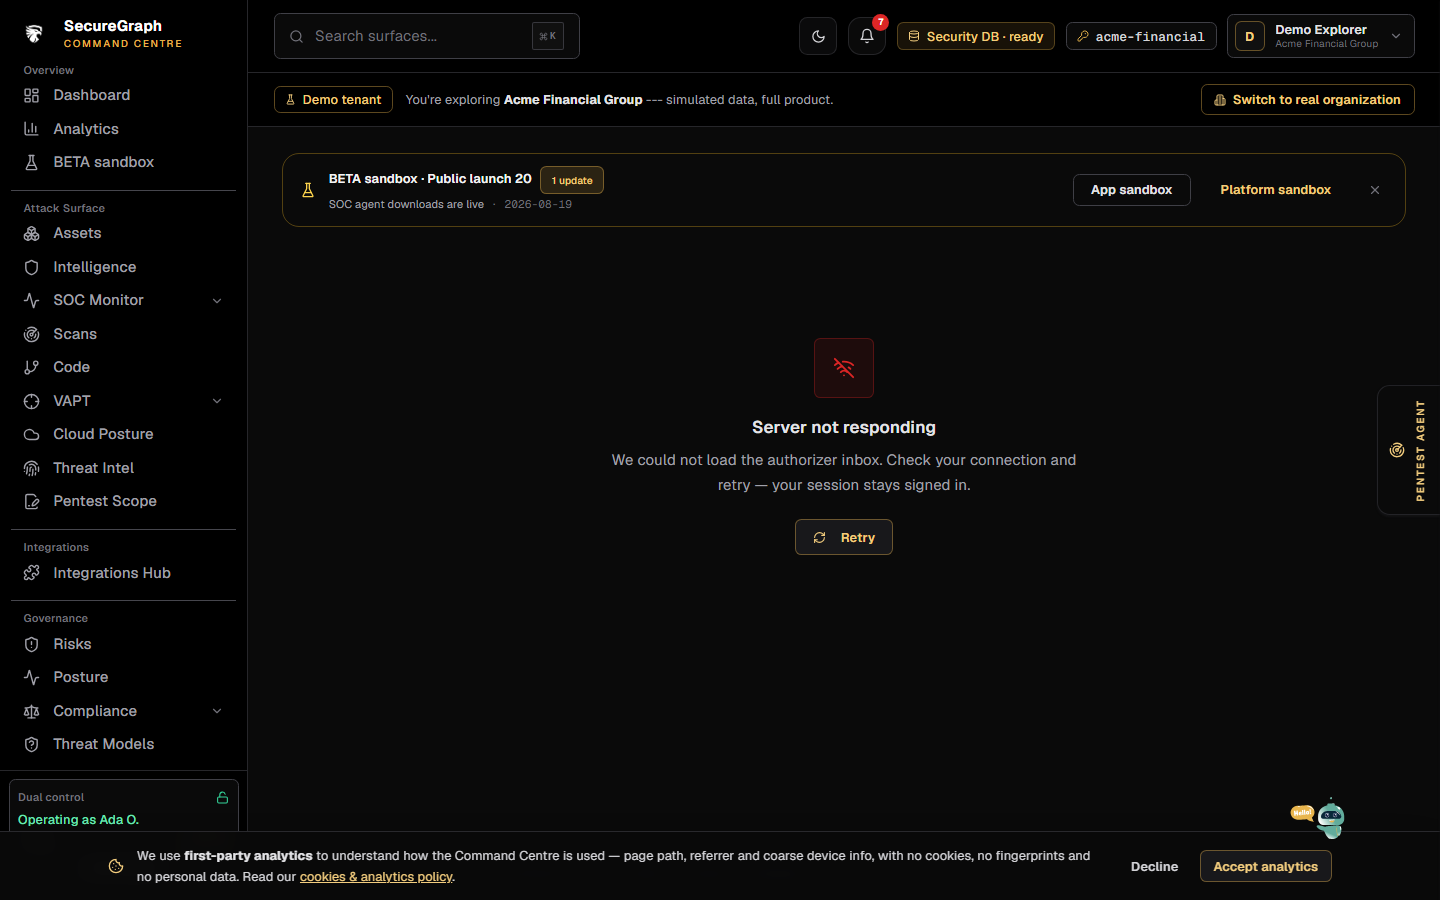
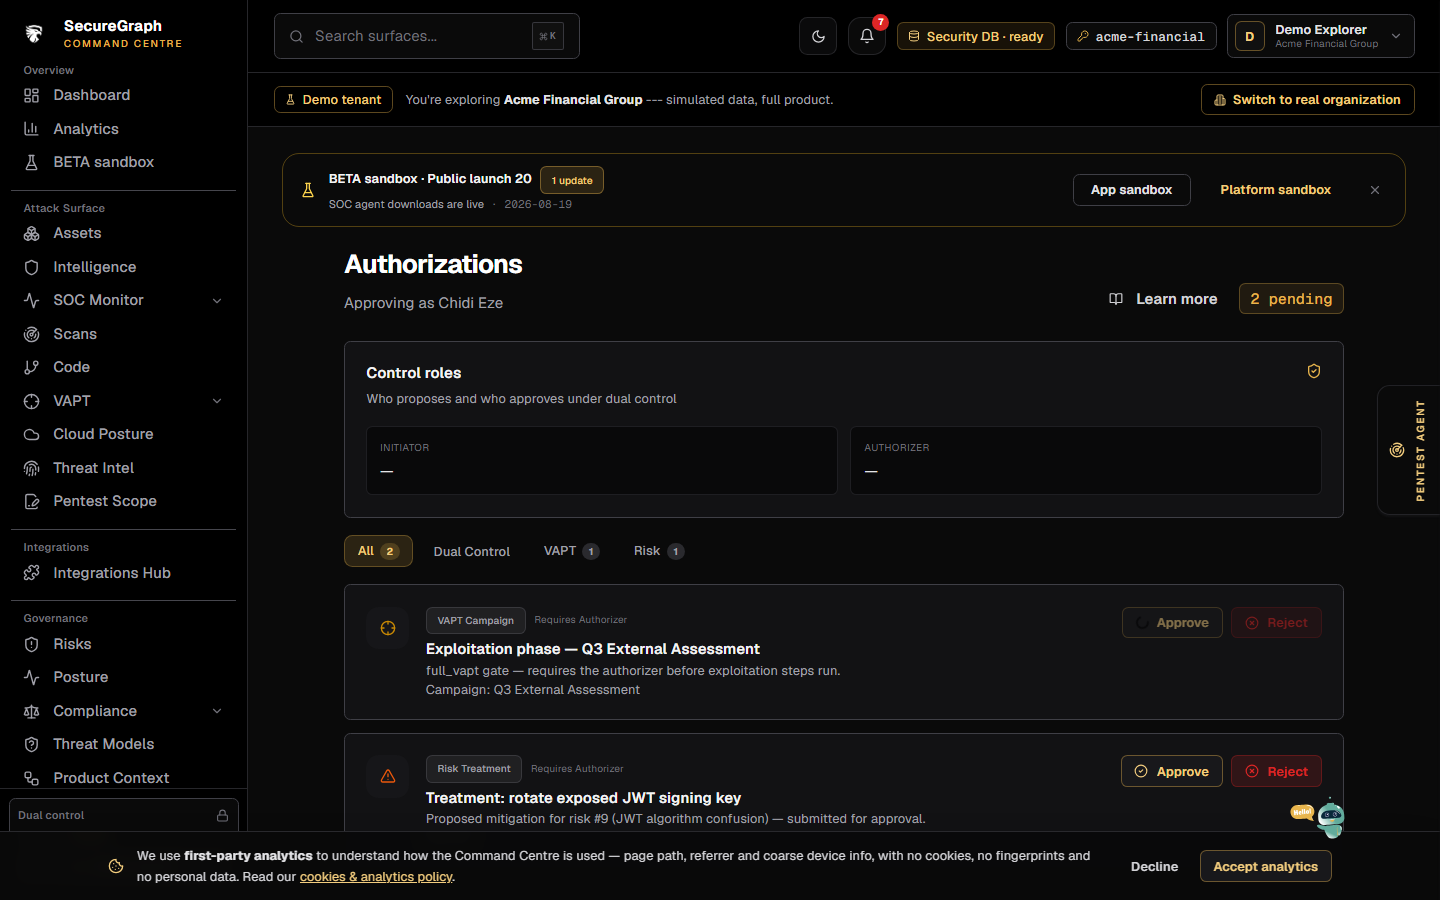
docs(plans): link the Plans page to the plans & billing guide

diff --git a/src/pages/AuthorizerInbox.tsx b/src/pages/AuthorizerInbox.tsx
@@ -6,7 +6,8 @@ import { Pagination, DEFAULT_PAGE_SIZE } from "@/components/Pagination";
 import DocLink from "@/components/DocLink";
 import { useResource } from "@/lib/useResource";
 import { useStore } from "@/lib/store";
-import { api } from "@/lib/api";
+import { api, delay, isDemoMode } from "@/lib/api";
+import * as demo from "@/lib/demo-data";
 import { cx } from "@/lib/utils";
 
 type InboxItem = {
@@ -44,14 +45,24 @@ export default function AuthorizerInbox() {
   const [pageSize, setPageSize] = useState(DEFAULT_PAGE_SIZE);
 
   const { data: inbox, loading, error, reload } = useResource(
-    () => api.get<InboxResponse>("/authorizer/inbox", { dualControl: true }),
+    () => (isDemoMode()
+      ? delay().then(() => demo.authorizerInbox as InboxResponse)
+      : api.get<InboxResponse>("/authorizer/inbox", { dualControl: true })),
     emptyInbox,
   );
 
   // Current dual-control designation (GET /audit/control-roles) — read-only here;
   // assignment is managed in the platform portal.
   const { data: controlRoles } = useResource(
-    () => api.get<any>("/audit/control-roles", { dualControl: true }),
+    () => (isDemoMode()
+      ? delay().then(() => ({
+          configured: demo.dualControl.configured,
+          initiator_name: demo.dualControl.initiator?.full_name,
+          initiator_title: demo.dualControl.initiator?.title,
+          authorizer_name: demo.dualControl.authorizer?.full_name,
+          authorizer_title: demo.dualControl.authorizer?.title,
+        }))
+      : api.get<any>("/audit/control-roles", { dualControl: true })),
     null,
   );
 
@@ -101,7 +112,21 @@ export default function AuthorizerInbox() {
     }
 
     try {
-      await api.post(path, body);
+      if (isDemoMode()) {
+        await delay(320);
+        // Mutate the shared demo fixture so the next reload() reflects the
+        // decision — otherwise the item never leaves the inbox.
+        const idx = demo.authorizerInbox.items.findIndex((i) => i.inboxId === item.inboxId);
+        if (idx >= 0) {
+          demo.authorizerInbox.items.splice(idx, 1);
+          demo.authorizerInbox.total = demo.authorizerInbox.items.length;
+          if (item.channel === "vapt") demo.authorizerInbox.counts.vapt = Math.max(0, demo.authorizerInbox.counts.vapt - 1);
+          else if (item.channel === "risk") demo.authorizerInbox.counts.riskTreatments = Math.max(0, demo.authorizerInbox.counts.riskTreatments - 1);
+          else demo.authorizerInbox.counts.dualControl = Math.max(0, demo.authorizerInbox.counts.dualControl - 1);
+        }
+      } else {
+        await api.post(path, body);
+      }
       toast("success", approve ? "Approved" : "Rejected");
       reload();
     } catch (e: any) {

diff --git a/src/lib/demo-data.ts b/src/lib/demo-data.ts
@@ -190,6 +190,38 @@ export const dualControl: DualControlState = {
   authorizer: { id: 2, full_name: "Chidi Eze", email: "chidi@acme.ng", title: "CISO" },
 };
 
+export const authorizerInbox = {
+  total: 2,
+  counts: { dualControl: 0, vapt: 1, riskTreatments: 1 },
+  authorizer: { userId: 2, email: "chidi@acme.ng", fullName: "Chidi Eze" },
+  items: [
+    {
+      inboxId: "vapt-13",
+      channel: "vapt",
+      kind: "campaign_phase_gate",
+      status: "pending",
+      title: "Exploitation phase — Q3 External Assessment",
+      summary: "full_vapt gate — requires the authorizer before exploitation steps run.",
+      campaignId: 13,
+      campaignName: "Q3 External Assessment",
+      requiredRole: "authorizer",
+      decidePaths: { approve: "/vapt/campaigns/13/gate/approve", reject: "/vapt/campaigns/13/gate/reject" },
+    },
+    {
+      inboxId: "risk-treatment-9",
+      channel: "risk",
+      kind: "treatment_approval",
+      status: "pending",
+      title: "Treatment: rotate exposed JWT signing key",
+      summary: "Proposed mitigation for risk #9 (JWT algorithm confusion) — submitted for approval.",
+      treatmentId: 9,
+      riskId: 9,
+      requiredRole: "authorizer",
+      decidePaths: { approve: "/risks/treatments/9/approve", reject: "/risks/treatments/9/reject" },
+    },
+  ],
+};
+
 export const dbConnections: DbConnection[] = [
   {
     id: 4,

diff --git a/src/pages/Plans.tsx b/src/pages/Plans.tsx
@@ -3,6 +3,7 @@ import { Link, useSearchParams } from "react-router-dom";
 import { motion } from "framer-motion";
 import { ArrowRight, Check, Loader2, Lock, Sparkles } from "lucide-react";
 import { PageHeader, Card, CardHeader, PageSkeleton, ErrorState } from "@/components/ui";
+import DocLink from "@/components/DocLink";
 import { useStore } from "@/lib/store";
 import { loadPricing, pricingFootnote, type PricingTier } from "@/lib/pricing";
 import {
@@ -99,8 +100,11 @@ export default function Plans() {
         title="Plans & billing"
         description="One catalog, shared with the website. Plan limits bind to the company — every user and key shares the same bucket."
         actions={
-          <span className="chip border-phantix-700 text-slate-300">
-            Current plan: <span className="ml-1 font-semibold text-white">{planLabel(currentPlan)}</span>
+          <span className="flex items-center gap-2">
+            <DocLink docId="hc-plans-billing" label="Plans & billing guide" />
+            <span className="chip border-phantix-700 text-slate-300">
+              Current plan: <span className="ml-1 font-semibold text-white">{planLabel(currentPlan)}</span>
+            </span>
           </span>
         }
       />
